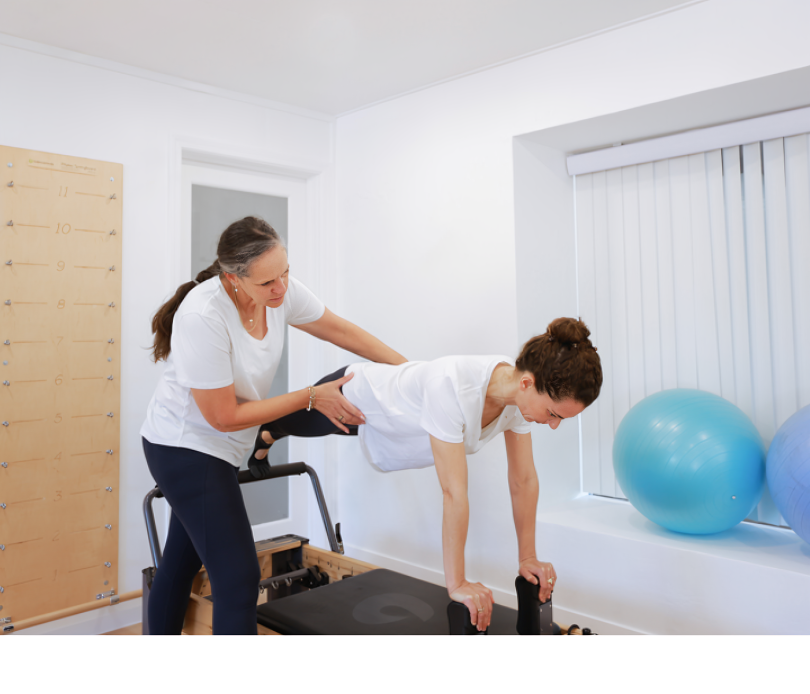
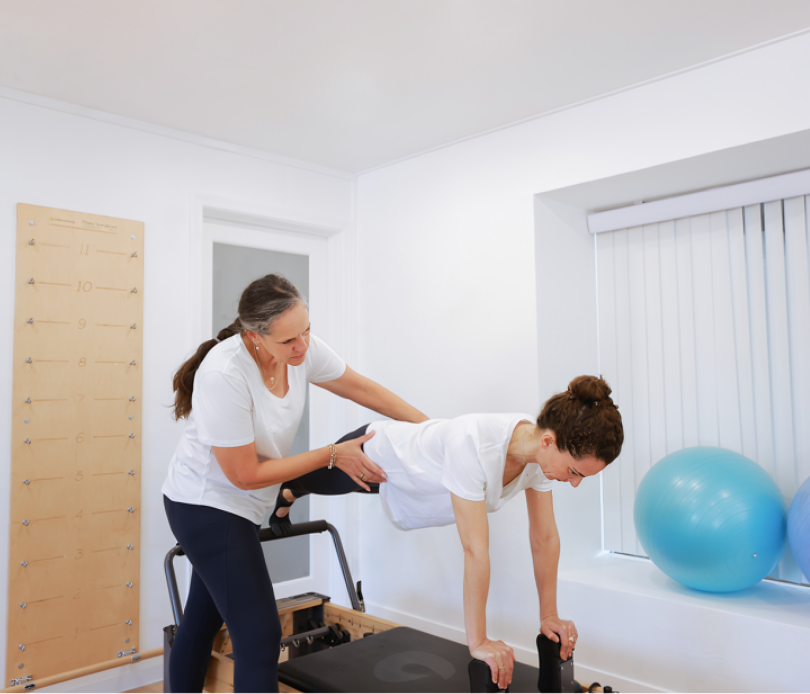
Update MIXX site: spacing, fonts, and images across pages

diff --git a/assets/css/styles.css b/assets/css/styles.css
@@ -1433,3 +1433,66 @@ header .logo img{ height: 124px; }
 .hero{
   background: linear-gradient(180deg, #EEF2F7 0%, var(--sand-soft) 100%);
 }
+/* =====================================================================
+   FIX 4 — Cleaner (not cramped) spacing on inner pages.
+   Scoped per page via the active nav link so other pages are untouched.
+   ===================================================================== */
+
+/* SERVICES — smaller gap between each heading and its text,
+   and less space between the Group Classes and Private Sessions blocks */
+body:has(nav a[href="services.html"].active) .section-head{ margin-bottom: 44px !important; }
+body:has(nav a[href="services.html"].active) .section-pad{ padding-bottom: 72px; }
+body:has(nav a[href="services.html"].active) .method.section-pad{ padding-top: 56px !important; }
+
+/* TEACHER TRAINING — trim the big space above "What to Expect"
+   (applies to the "Interested?" section too, and evens the bottom) */
+body:has(nav a[href="teacher-training.html"].active) .method.section-pad{
+  padding-top: 56px !important;
+  padding-bottom: 72px;
+}
+/* =====================================================================
+   FIX 5 — Smaller gap between the page heading/subtitle and the first
+   paragraph beneath it, on Services + Teacher Training. (Adds to FIX 4.)
+   ===================================================================== */
+
+/* Pull the first block up closer to the hero title
+   (Services: "Group Classes" → intro  •  Teacher Training: intro → "THE PROGRAM") */
+body:has(nav a[href="services.html"].active) .page-hero,
+body:has(nav a[href="teacher-training.html"].active) .page-hero{
+  padding-bottom: 40px;
+}
+
+/* Services: tighten the gap under each heading/subtitle
+   (e.g. the "Private Sessions" subtitle → the paragraph below it) */
+body:has(nav a[href="services.html"].active) .section-head{
+  margin-bottom: 28px !important;
+}
+/* =====================================================================
+   FIX 6 — Pricing: match the tighter hero→first-section spacing used
+   on the other inner pages.
+   ===================================================================== */
+
+/* Pull "Memberships" up closer to the hero title */
+body:has(nav a[href="pricing.html"].active) .page-hero{
+  padding-bottom: 40px;
+}
+body:has(nav a[href="pricing.html"].active) .pricing-band.section-pad:first-of-type{
+  padding-top: 56px !important;
+}
+/* =====================================================================
+   FIX 7 — About page:
+   (a) bios use the clean navy 18px text (same as Services/home photos)
+   (b) tighter hero→first-section gap, matching Pricing.
+   ===================================================================== */
+
+/* (a) Bio paragraphs → navy 18px, weight 600 */
+body:has(nav a[href="about.html"].active) .method-text p{
+  font-size: 18px;
+  line-height: 1.8;
+  color: var(--navy);
+  font-weight: 600;
+}
+
+/* (b) Pull the first bio block up closer to the "About Us" hero title */
+body:has(nav a[href="about.html"].active) .page-hero{ padding-bottom: 40px; }
+body:has(nav a[href="about.html"].active) .method.section-pad{ padding-top: 56px !important; }

diff --git a/pricing.html b/pricing.html
@@ -51,7 +51,7 @@
   <!-- =====================================================================
        MEMBERSHIPS
        ===================================================================== -->
-  <section class="pricing-band section-pad" style="padding-top:80px;">
+  <section class="pricing-band section-pad" style="padding:72px 0;">
     <div class="wrap">
       <div class="section-head center reveal">
         <div class="eyebrow reveal" style="justify-content:center;">Group Classes</div>
@@ -84,23 +84,13 @@
         </div>
       </div>
 
-      <!-- IMAGE: Membership / group class photo -->
-      <div class="reveal" style="max-width:760px; margin:48px auto 0;">
-        <div class="method-visual" style="height:420px;">
-          <div class="img-placeholder">
-            <svg class="ph-icon" viewBox="0 0 24 24" fill="none" stroke="currentColor" stroke-width="1.5"><rect x="3" y="3" width="18" height="18" rx="2"/><circle cx="8.5" cy="8.5" r="1.5"/><path d="M21 15l-5-5L5 21"/></svg>
-            <span class="ph-label">GROUP CLASS PHOTO</span>
-            <span class="ph-dims">760 × 420px</span>
-          </div>
-        </div>
-      </div>
     </div>
   </section>
 
   <!-- =====================================================================
        PACKAGES
        ===================================================================== -->
-  <section class="pricing-band section-pad" style="background:var(--sand); padding-top:80px;">
+  <section class="pricing-band section-pad" style="background:var(--sand); padding:72px 0;">
     <div class="wrap">
       <div class="section-head center reveal">
         <div class="eyebrow reveal" style="justify-content:center;">Flexible</div>
@@ -124,11 +114,7 @@
       <!-- IMAGE: Packages / studio photo -->
       <div class="reveal" style="max-width:760px; margin:48px auto 0;">
         <div class="method-visual" style="height:420px;">
-          <div class="img-placeholder">
-            <svg class="ph-icon" viewBox="0 0 24 24" fill="none" stroke="currentColor" stroke-width="1.5"><rect x="3" y="3" width="18" height="18" rx="2"/><circle cx="8.5" cy="8.5" r="1.5"/><path d="M21 15l-5-5L5 21"/></svg>
-            <span class="ph-label">PACKAGES PHOTO</span>
-            <span class="ph-dims">760 × 420px</span>
-          </div>
+          <img src="assets/images/packages.png" alt="MIXX Pilates class package session" style="width:100%; height:100%; object-fit:cover;">
         </div>
       </div>
     </div>
@@ -137,7 +123,7 @@
   <!-- =====================================================================
        PRIVATE SESSIONS
        ===================================================================== -->
-  <section class="pricing-band section-pad" style="padding-top:80px;">
+  <section class="pricing-band section-pad" style="padding:72px 0;">
     <div class="wrap">
       <div class="section-head center reveal">
         <div class="eyebrow reveal" style="justify-content:center;">One On One</div>
@@ -179,30 +165,18 @@
         </div>
       </div>
 
-      <!-- IMAGES: Private session photos (2-up) -->
-      <div class="reveal" style="display:grid; grid-template-columns:1fr 1fr; gap:24px; margin-top:48px;">
-        <div class="method-visual" style="height:360px;">
-          <div class="img-placeholder">
-            <svg class="ph-icon" viewBox="0 0 24 24" fill="none" stroke="currentColor" stroke-width="1.5"><rect x="3" y="3" width="18" height="18" rx="2"/><circle cx="8.5" cy="8.5" r="1.5"/><path d="M21 15l-5-5L5 21"/></svg>
-            <span class="ph-label">PRIVATE SESSION PHOTO</span>
-            <span class="ph-dims">560 × 360px</span>
-          </div>
-        </div>
-        <div class="method-visual" style="height:360px;">
-          <div class="img-placeholder">
-            <svg class="ph-icon" viewBox="0 0 24 24" fill="none" stroke="currentColor" stroke-width="1.5"><rect x="3" y="3" width="18" height="18" rx="2"/><circle cx="8.5" cy="8.5" r="1.5"/><path d="M21 15l-5-5L5 21"/></svg>
-            <span class="ph-label">PRIVATE SESSION PHOTO</span>
-            <span class="ph-dims">560 × 360px</span>
-          </div>
+     <!-- IMAGE: Private session photo -->
+      <div class="reveal" style="max-width:760px; margin:48px auto 0;">
+        <div class="method-visual" style="height:420px;">
+          <img src="assets/images/private-session.png" alt="MIXX private Pilates session" style="width:100%; height:100%; object-fit:cover;">
         </div>
       </div>
-    </div>
   </section>
 
   <!-- =====================================================================
        SEMI-PRIVATE SESSIONS
        ===================================================================== -->
-  <section class="pricing-band section-pad" style="background:var(--sand); padding-top:80px;">
+  <section class="pricing-band section-pad" style="background:var(--sand); padding:72px 0;">
     <div class="wrap">
       <div class="section-head center reveal">
         <div class="eyebrow reveal" style="justify-content:center;">Share It</div>
@@ -226,11 +200,7 @@
       <!-- IMAGE: Semi-private session photo -->
       <div class="reveal" style="max-width:520px; margin:48px auto 0;">
         <div class="method-visual" style="height:360px;">
-          <div class="img-placeholder">
-            <svg class="ph-icon" viewBox="0 0 24 24" fill="none" stroke="currentColor" stroke-width="1.5"><rect x="3" y="3" width="18" height="18" rx="2"/><circle cx="8.5" cy="8.5" r="1.5"/><path d="M21 15l-5-5L5 21"/></svg>
-            <span class="ph-label">SEMI-PRIVATE PHOTO</span>
-            <span class="ph-dims">520 × 360px</span>
-          </div>
+          <img src="assets/images/semi-private.png" alt="MIXX semi-private Pilates session" style="width:100%; height:100%; object-fit:cover;">
         </div>
       </div>
     </div>
@@ -239,7 +209,7 @@
   <!-- =====================================================================
        POLICIES
        ===================================================================== -->
-  <section class="section-pad" style="padding-top:80px;">
+  <section class="section-pad" style="padding:72px 0;">
     <div class="wrap">
       <div class="section-head center reveal" style="max-width:780px;">
         <p style="margin-bottom:28px;"><strong style="color:var(--navy);">Cancellation Policy:</strong><br>All Group Classes and Private / Semi-Private Sessions have a 24-hour cancellation/change policy. Late canceled reservations are subject to full charge.</p>